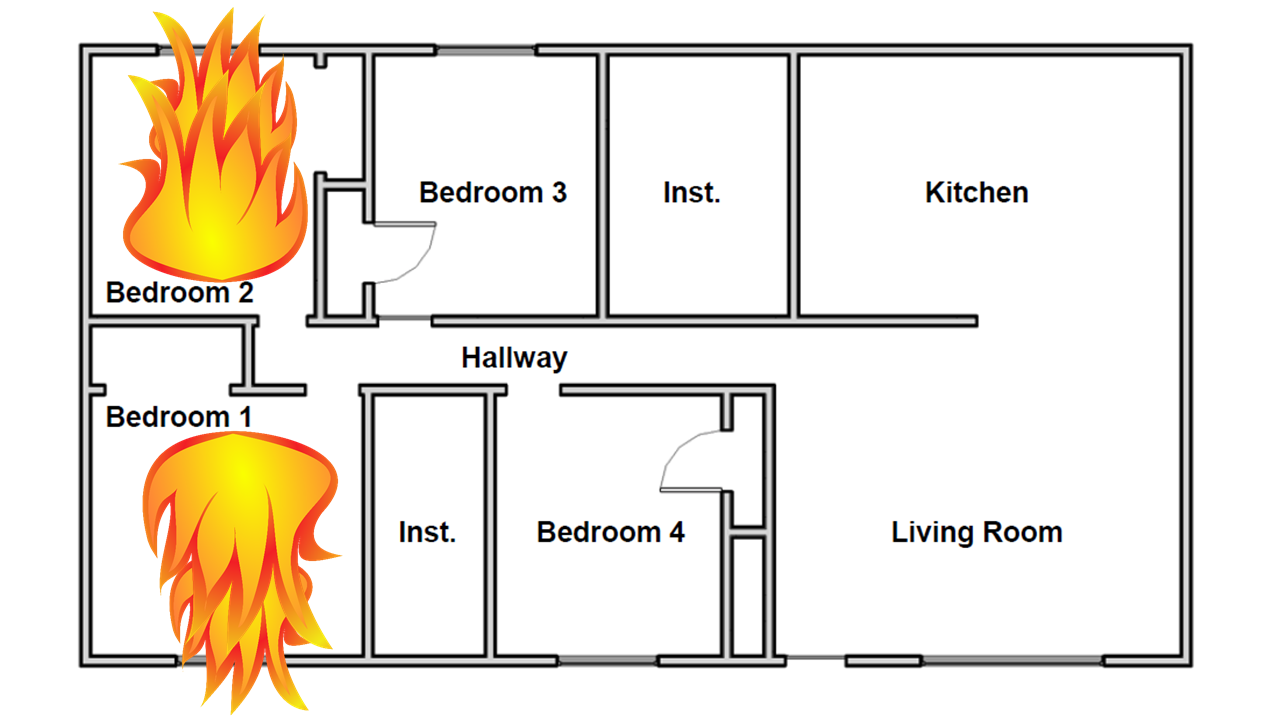
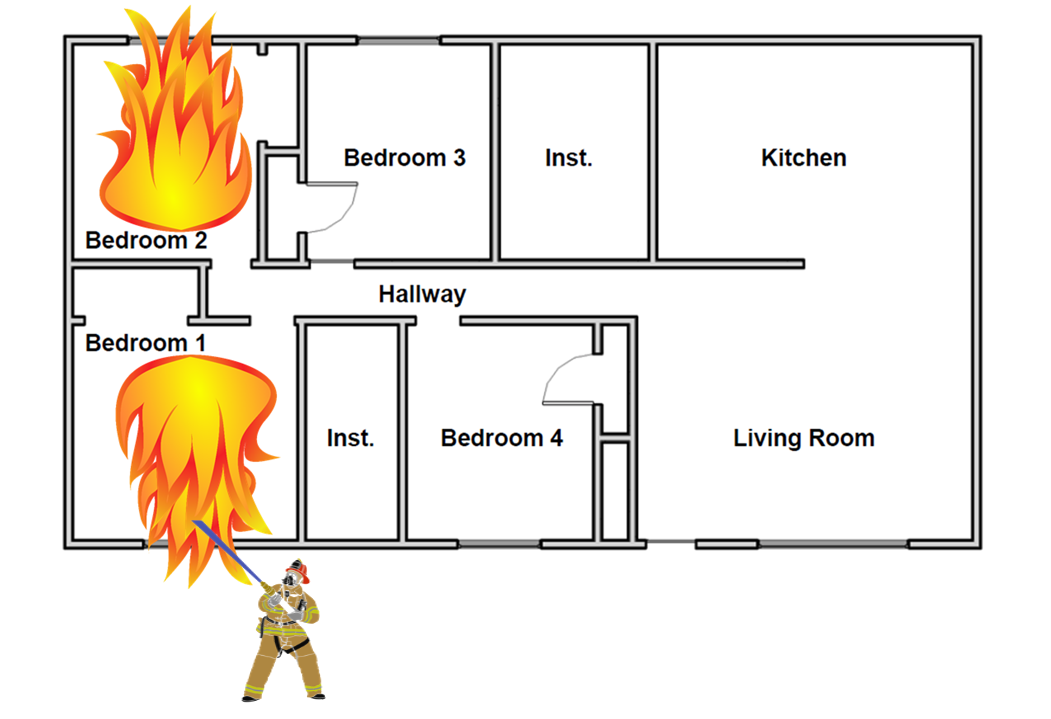
Updated figures to include FFs through section 5
Updated figures through section 5, updated Bullard text to correct model
(and associated text in paragraph referring to camera), removed comma
from blank space in literature review.

diff --git a/Part_II/5_Report/DHS2013_PartII.tex b/Part_II/5_Report/DHS2013_PartII.tex
@@ -334,7 +334,7 @@ Introductory firefighter training for certification in most states is governed b
 There are four main training manuals used for Firefighter I \& II education;=:  ``Essentials of Firefighting and Fire Department Operations'' by IFSTA; ``Fundamentals of Firefighting Skills'', a collaboration between Jones \& Bartlett Learning, NFPA and IAFC.; ``Firefighter's Handbook Essentials of Firefighting'' by Delmar Learning; and ``Fire Engineering's Handbook for Firefighter I \& II' by Pennwell Corporations, Fire Engineering \cite{Stowell_Essentials6, JandB:Firefighter_Skills, Delmar:Firefighters_Handbook, Corbett_FE_FFI_FFII}. All of them reference three different methods of fire attack: direct (applying water to the fuel), indirect (applying water to the hot gases) and combination (a combination of direct and indirect attack). The skills required to complete the three methods are discussed in detail, however limited information exists on when they should be applied. The concept of transitioning is referred to in training manuals as a strategy rather than a tactic. It is discussed with regards to offensive and defensive strategy, where one would transition from one strategy to another.  Like Braidwood's book in 1830, these manuals are predominantly experienced-based.
 
 % \section{Firefighter Line of Duty Deaths}
-,
+
 \section{Research Work}
 
 \subsection{Fire Suppression Methods}
@@ -760,7 +760,7 @@ To determine the gas velocity, an array of bi-directional probes was utilized in
 	\label{fig:BDP}
 \end{figure}
 
-Standard video was obtained through the use of BoschVTC-206F03-4 video cameras (Figure~\ref{fig:BullettCam}). Thermal imaging of the front and rear of the structure was taken using ISG Infrasys Elite XR (Figure~\ref{fig:IRCam}). The thermal imaging camera has a fixed emissivity value of 0.9 and was utilized for visual representation of relative conditions. All cameras were recorded Samsung Model SRD-1680 DN digital video recorder set to 24 frames per second with a quality of ``high''.
+Standard video was obtained through the use of BoschVTC-206F03-4 video cameras (Figure~\ref{fig:BullettCam}). Thermal imaging of the front and rear of the structure was taken using Bullard T4X cameras (Figure~\ref{fig:IRCam}). The thermal imaging camera has a fixed emissivity value of 0.9 and was utilized for visual representation of relative conditions. All cameras were recorded Samsung Model SRD-1680 DN digital video recorder set to 24 frames per second with a quality of ``high''.
 
 \begin{figure}[H]
 	\centering
@@ -780,8 +780,8 @@ Standard video was obtained through the use of BoschVTC-206F03-4 video cameras (
 
 \begin{figure}[H]
 	\centering
-	\includegraphics[height = 2.5in]{0_Images/Instrumentation/Bullard_TIC.pngg}
-	\caption{ISG Elite XR Fire Service Thermal Imaging Camera}
+	\includegraphics[height = 2.5in]{0_Images/Instrumentation/Bullard_TIC.png}
+	\caption{Bullard T4X Fire Service Thermal Imaging Camera}
 	\label{fig:IRCam}
 \end{figure}
 
@@ -1121,7 +1121,7 @@ During Experiments~1--6, an interior attack method was performed to extinguish a
 
 \begin{figure}[!ht]
 	\centering
-	\includegraphics[width=5in]{Figures/General/CLean_No_Vent_Fire}
+	\includegraphics[width=5in]{Figures/General/CLean_No_Vent_Fire_FF}
 	\caption{`No Vent' configuration used during Experiments~1--6.}
 	\label{fig:No_Vent_int}
 \end{figure}
@@ -1320,7 +1320,7 @@ During Experiments~7--12, an interior suppression tactic was performed to exting
 
 \begin{figure}[!ht]
 	\centering
-	\includegraphics[width=5in]{Figures/General/Clean_Single_Vent_Fire}
+	\includegraphics[width=5in]{Figures/General/Clean_Single_Vent_Fire_FF}
 	\caption{Configurations for Experiments 7 to 12}
 	\label{fig:Single_Vent_int}
 \end{figure}
@@ -1521,7 +1521,7 @@ During Experiments~13--17, an interior suppression tactic was performed to extin
 
 \begin{figure}[!ht]
 	\centering
-	\includegraphics[width=4.5in]{Figures/General/Clean_Two_Vent_Fire}
+	\includegraphics[width=4.5in]{Figures/General/Clean_Two_Vent_Fire_FF}
 	\caption{Configurations for Experiments 13 to 17}
 	\label{fig:Two_Vent_int}
 \end{figure}
@@ -1698,7 +1698,7 @@ During Experiments~18--20, a transitional attack was performed to extinguish a f
 
 \begin{figure}[H]
 	\centering
-	\includegraphics[width=5in]{Figures/General/Clean_Single_Vent_Transitional_Fire}
+	\includegraphics[width=5in]{Figures/General/Clean_Single_Vent_Transitional_Fire_FF_FDClosed}
 	\caption{Configuration for Experiments 18 through 20.}
 	\label{fig:Single_Vent_ext}
 \end{figure}
@@ -1723,7 +1723,7 @@ During Experiment~21, a transitional attack was performed to extinguish a fire i
 
 \begin{figure}[H]
 	\centering
-	\includegraphics[width=5in]{Figures/General/Clean_Single_Vent_Fire}
+	\includegraphics[width=5in]{Figures/General/Clean_Single_Vent_Transitional_Fire_FF}
 	\caption{Configuration for Experiment 21.}
 	\label{fig:Single_Vent_ext_alt1}
 \end{figure}
@@ -1746,7 +1746,7 @@ During Experiment~26, a transitional attack was performed to extinguish a fire i
 
 \begin{figure}[H]
 	\centering
-	\includegraphics[width=5in]{Figures/General/Clean_Single_Vent_Transitional_BR4_FD_Open_Fire}
+	\includegraphics[width=5in]{Figures/General/Clean_Single_Vent_Transitional_BR4_Fire_FF}
 	\caption{Configuration for Experiment 26.}
 	\label{fig:Single_Vent_ext_alt2}
 \end{figure}
